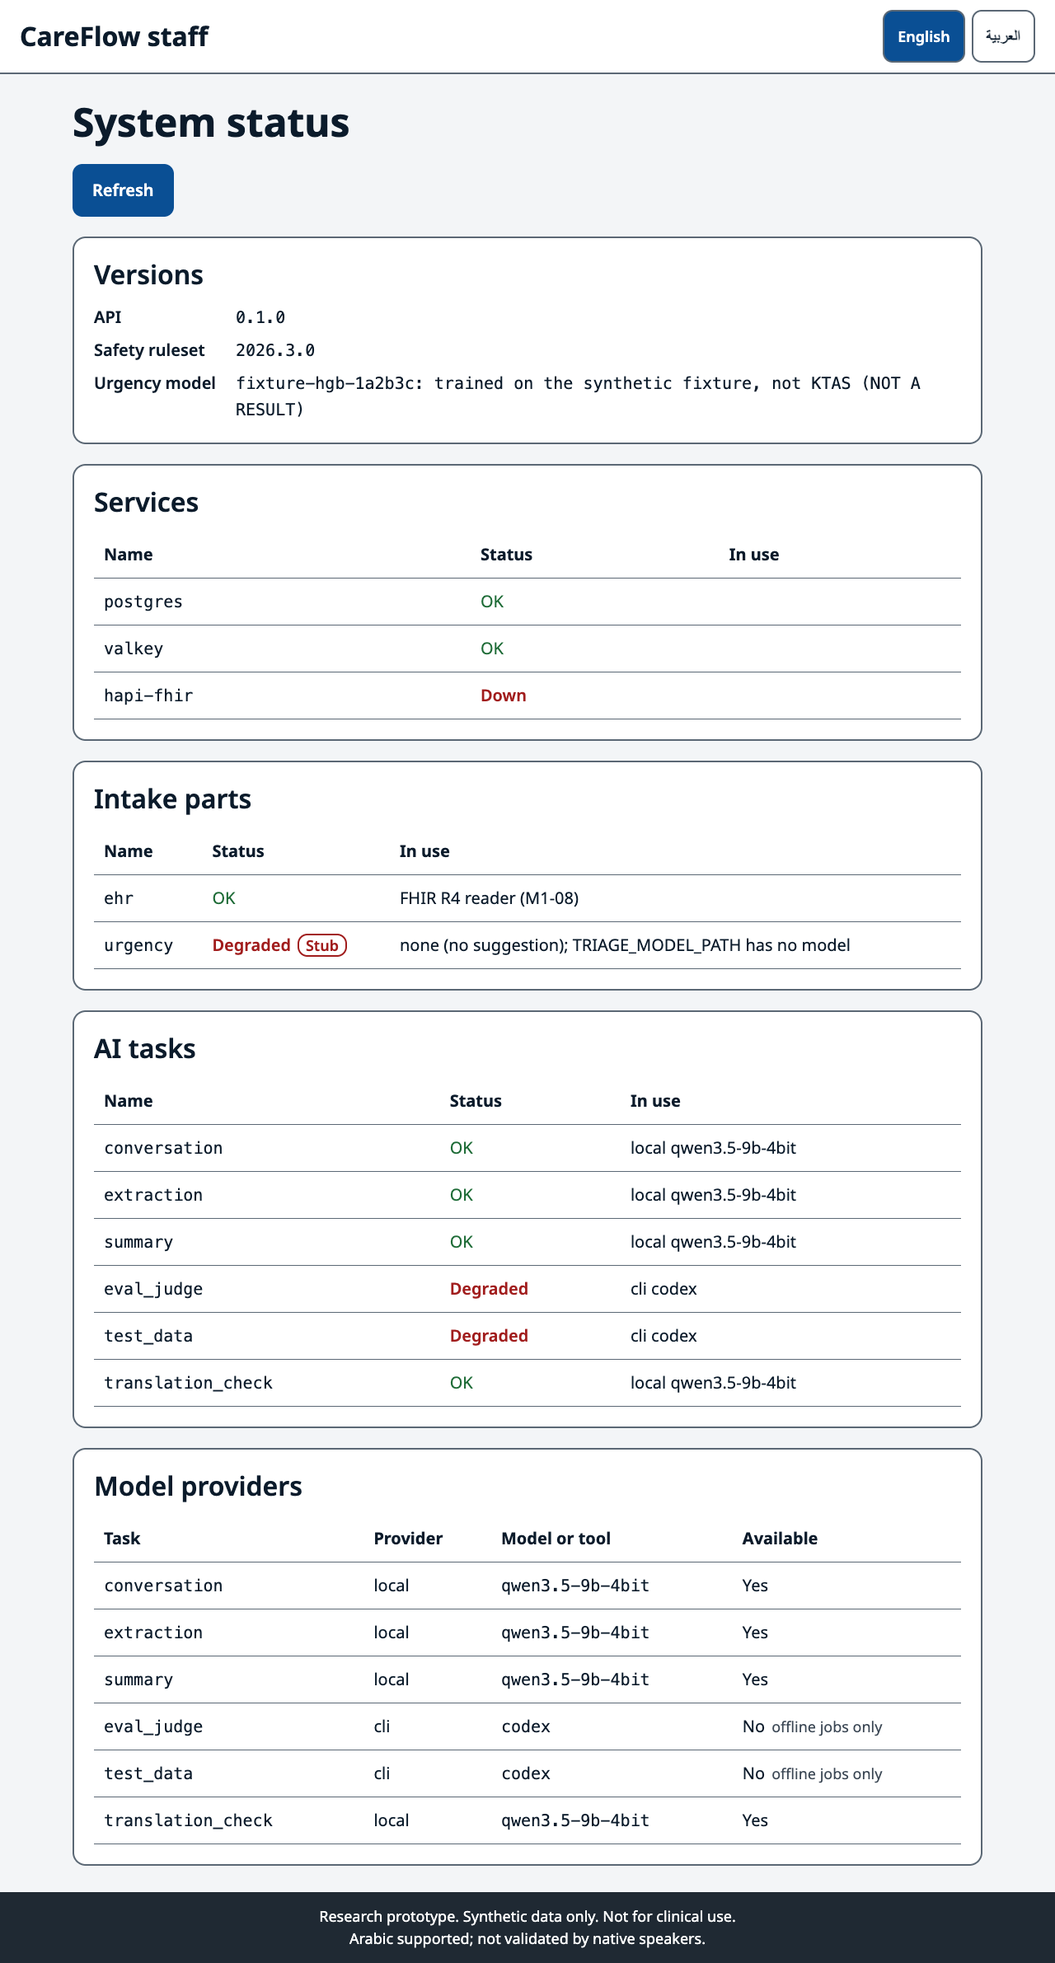
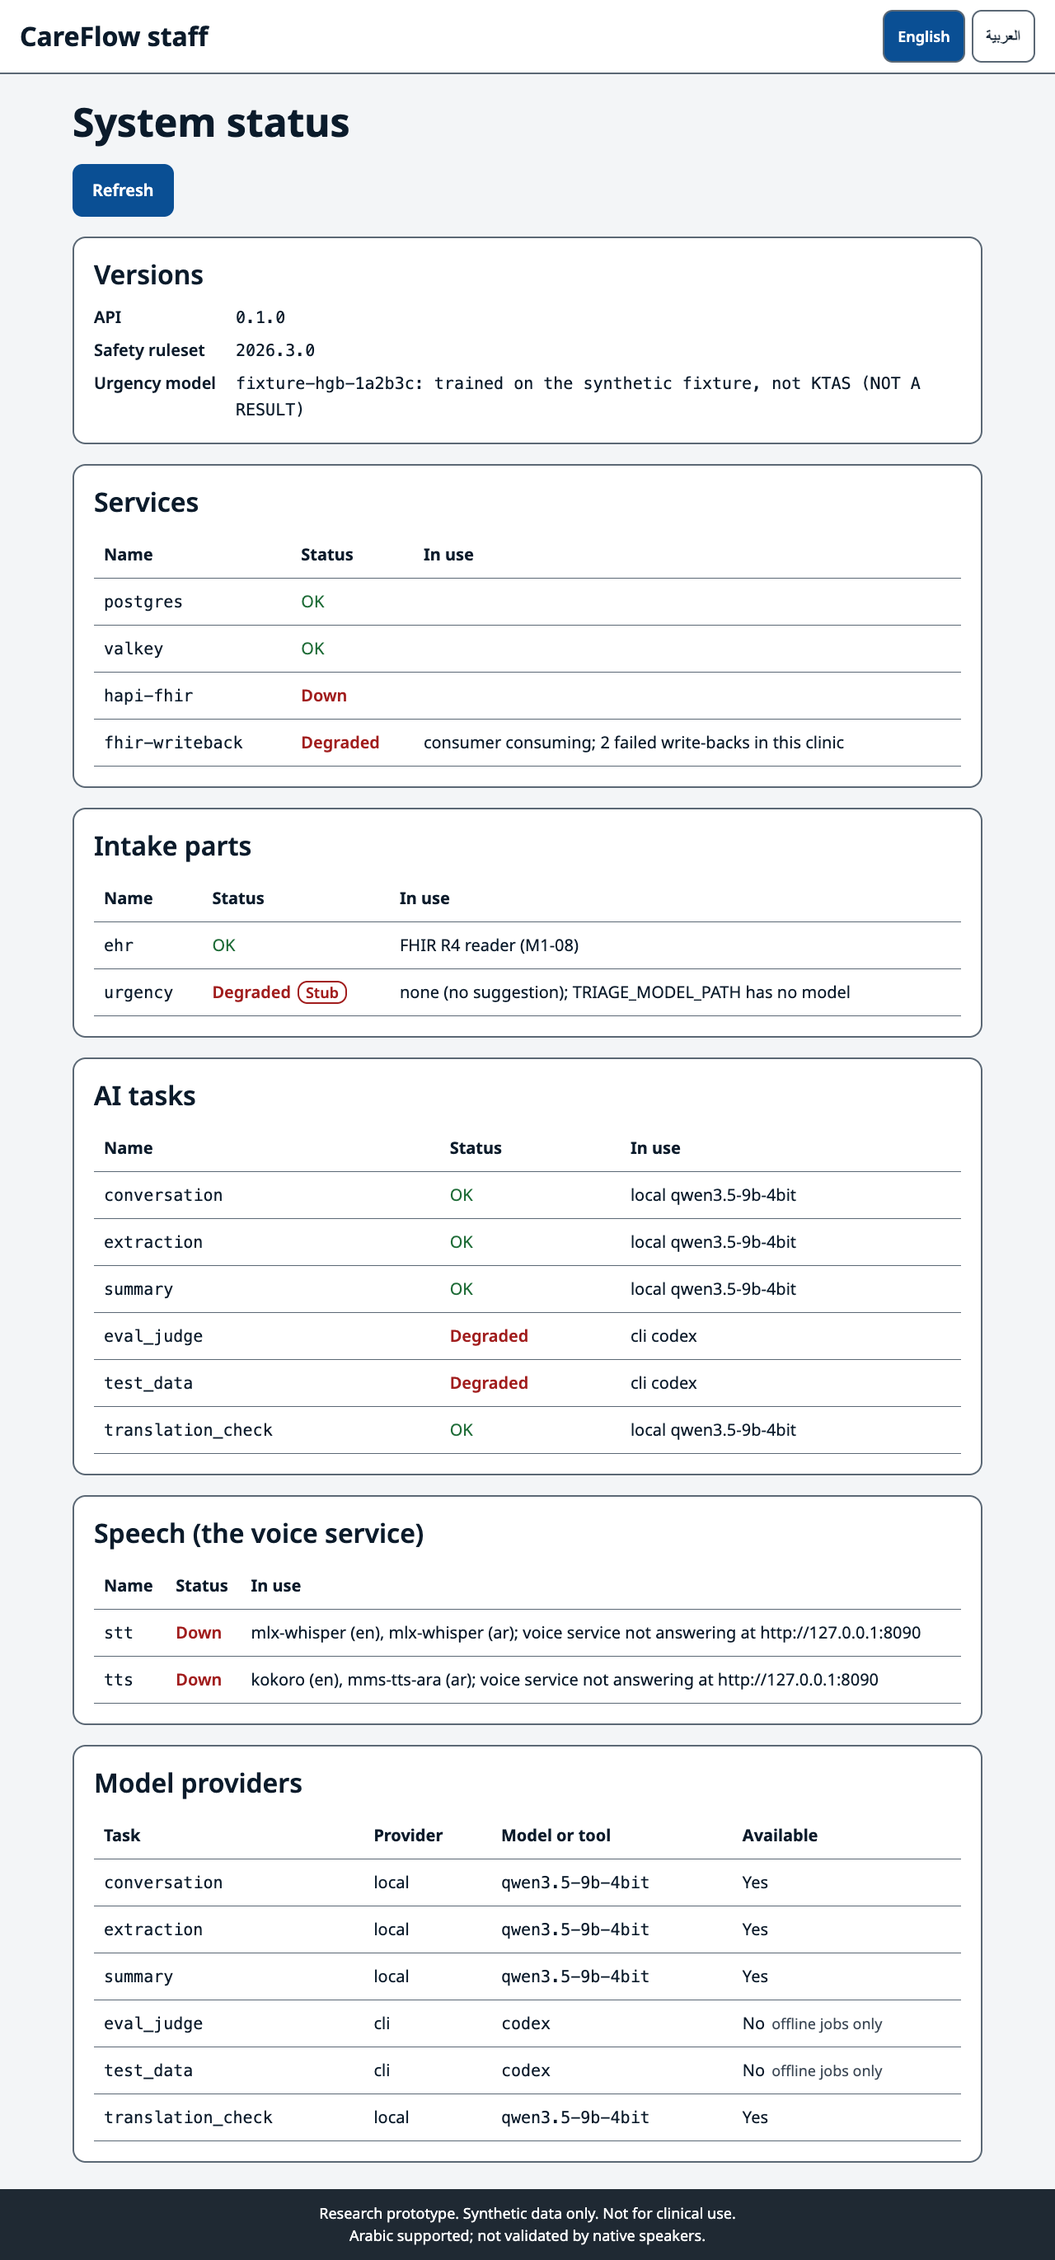
feat(api,staff): report speech and FHIR write-back health honestly on the admin status
- speech:stt and speech:tts per language from config/providers.yaml, "ok" only when CareFlow's
  voice service answers: port 8090 here is held by another copy of the voice agent that also
  answers /healthz, so the CareFlow voice service now names itself ("careflow-voice").
- fhir-writeback: the bus consumer's state (ADR-043) and this clinic's failed write-backs.
- The admin page shows the speech rows; the tests and fixtures cover both.
- docs/FLAKY.md records an intermittent M1-15 nurse e2e test (1 of 4 full runs), not retried.
- docs/evidence/M1-17.md.

Part of SHE-313 [M1-17].

diff --git a/apps/staff/src/components/AdminStatusView.tsx b/apps/staff/src/components/AdminStatusView.tsx
@@ -53,6 +53,7 @@ export function AdminStatusView() {
               <StatusTable title={t("services")} rows={infra} />
               <StatusTable title={t("ports")} rows={byPrefix("port:")} stubs />
               <StatusTable title={t("aiTasks")} rows={byPrefix("ai:")} />
+              <StatusTable title={t("speech")} rows={byPrefix("speech:")} />
             </>
           );
         }}
@@ -105,7 +106,7 @@ function StatusTable({ title, rows, stubs = false }: { title: string; rows: Serv
         <tbody>
           {rows.map((row) => (
             <tr key={row.name} data-row={row.name}>
-              <td className={`${CELL} font-mono`}>{row.name.replace(/^(port|ai):/, "")}</td>
+              <td className={`${CELL} font-mono`}>{row.name.replace(/^(port|ai|speech):/, "")}</td>
               <td className={CELL}>
                 <span className={row.status === "ok" ? "text-success" : "font-semibold text-danger"}>
                   {t(`state.${row.status}`)}

diff --git a/apps/staff/tests/doctor-board-admin.test.tsx b/apps/staff/tests/doctor-board-admin.test.tsx
@@ -208,5 +208,14 @@ describe("AdminStatusView", () => {
     expect(screen.getByText(/NOT A RESULT/)).toBeInTheDocument();
     const hapi = document.querySelector('[data-row="hapi-fhir"]') as HTMLElement;
     expect(within(hapi).getByText("Down")).toBeInTheDocument();
+    // Configured is not running: the write-back's failures and the voice service's absence show.
+    const writeback = document.querySelector('[data-row="fhir-writeback"]') as HTMLElement;
+    expect(within(writeback).getByText("Degraded")).toBeInTheDocument();
+    expect(writeback).toHaveTextContent("2 failed write-backs in this clinic");
+    for (const kind of ["stt", "tts"]) {
+      const speech = document.querySelector(`[data-row="speech:${kind}"]`) as HTMLElement;
+      expect(within(speech).getByText("Down")).toBeInTheDocument();
+      expect(speech).toHaveTextContent("voice service not answering");
+    }
   });
 });

diff --git a/apps/staff/tests/e2e/screens.spec.ts b/apps/staff/tests/e2e/screens.spec.ts
@@ -118,6 +118,8 @@ test("the admin status lists every AI task, marks stubs, names a fixture model a
   await expect(urgencyPort.getByText("Stub")).toBeVisible();
   await expect(page.getByText(/NOT A RESULT/)).toBeVisible();
   await expect(page.locator('[data-row="hapi-fhir"]').getByText("Down")).toBeVisible();
+  await expect(page.locator('[data-row="fhir-writeback"]')).toContainText("2 failed write-backs in this clinic");
+  await expect(page.locator('[data-row="speech:stt"]')).toContainText("voice service not answering");
   await axe(page, "admin");
   await evidence(page, "admin-status");
 });

diff --git a/services/api/src/careflow_api/routers/admin.py b/services/api/src/careflow_api/routers/admin.py
@@ -9,14 +9,18 @@ from __future__ import annotations
 
 import os
 import shutil
+import uuid
 from pathlib import Path
 from typing import Annotated, Any
 
 import httpx
 from fastapi import APIRouter, Depends, Request
+from sqlalchemy import func, select
 
 from careflow_api.config import Settings, get_settings
-from careflow_api.deps import require_roles
+from careflow_api.deps import Principal, require_roles
+from careflow_api.models import FhirWritebackStatus
+from careflow_api.rls import clinic_session
 from careflow_api.routers.health import component_status
 from careflow_contracts.api_models import AdminStatus, ProvidersResponse
 from careflow_providers.adapters.replay import provider_mode
@@ -41,7 +45,9 @@ def ruleset_version() -> str:
     dependencies=[Depends(require_roles("admin"))],
 )
 async def admin_status(
-    settings: Annotated[Settings, Depends(get_settings)], request: Request
+    settings: Annotated[Settings, Depends(get_settings)],
+    request: Request,
+    principal: Annotated[Principal, Depends(require_roles("admin"))],
 ) -> AdminStatus:
     """The services, then every intake port's implementation (M1-12), the AI tasks' providers
     and models, and the versions of the ruleset and the urgency model."""
@@ -49,6 +55,7 @@ async def admin_status(
     services: list[dict[str, str]] = [
         {"name": SERVICE_NAMES[key], "status": value} for key, value in components.items()
     ]
+    services.append(await writeback_row(request, principal.clinic_id))
     wiring = getattr(request.app.state, "wiring", None)
     if wiring is not None:
         for choice in wiring.choices:
@@ -69,6 +76,7 @@ async def admin_status(
         services.append(
             {"name": "intake", "status": "down", "detail": "intake runtime not started"}
         )
+    services.extend(await speech_rows(settings))
     for task in await provider_rows():
         uses = task.get("model") or task.get("tool") or ""
         services.append(
@@ -85,6 +93,64 @@ async def admin_status(
             "services": services,
         }
     )
+
+
+async def writeback_row(request: Request, clinic_id: uuid.UUID) -> dict[str, str]:
+    """The FHIR write-back as it runs: its bus consumer (ADR-043) and this clinic's write-backs
+    that failed for good (an outage stays pending and is retried, so it is not counted)."""
+    from careflow_api.intake.consumers import WRITEBACK_GROUP
+
+    bus = getattr(request.app.state, "bus", None)
+    consumer = bus.status.get(WRITEBACK_GROUP) if bus is not None else None
+    async with clinic_session(clinic_id) as db:
+        query = select(func.count()).select_from(FhirWritebackStatus)
+        failed = (
+            await db.execute(query.where(FhirWritebackStatus.status == "failed"))
+        ).scalar_one()
+    if consumer is None:
+        status = "down"
+    else:
+        status = "ok" if consumer == "consuming" and failed == 0 else "degraded"
+    detail = f"consumer {consumer or 'not running'}; {failed} failed write-backs in this clinic"
+    return {"name": "fhir-writeback", "status": status, "detail": detail}
+
+
+def voice_url(settings: Settings) -> str:
+    return settings.voice_base_url or f"http://127.0.0.1:{os.environ.get('VOICE_PORT', '8090')}"
+
+
+async def careflow_voice_answers(url: str) -> bool:
+    """Whether CareFlow's voice service answers at `url`: another copy of the voice agent on the
+    same port answers /healthz too, but without `service: careflow-voice`."""
+    try:
+        async with httpx.AsyncClient(timeout=LOCAL_PROBE_SECONDS) as client:
+            response = await client.get(f"{url.rstrip('/')}/healthz")
+        body = response.json() if response.status_code == 200 else {}
+    except (httpx.HTTPError, ValueError):
+        return False
+    return isinstance(body, dict) and body.get("service") == "careflow-voice"
+
+
+async def speech_rows(settings: Settings) -> list[dict[str, str]]:
+    """STT and TTS per language, from config/providers.yaml's speech section; "ok" only when the
+    CareFlow voice service that runs them answers."""
+    from careflow_intake.wiring import providers_config
+
+    speech = providers_config().speech or {}
+    url = voice_url(settings)
+    up = await careflow_voice_answers(url)
+    rows = []
+    for kind in ("stt", "tts"):
+        spec = speech.get(kind) or {}
+        by_language = spec.get("by_language") or {}
+        engines = ", ".join(f"{engine} ({lang})" for lang, engine in by_language.items())
+        detail = engines or str(spec.get("provider", "not configured"))
+        if not up:
+            detail = f"{detail}; voice service not answering at {url}"
+        rows.append(
+            {"name": f"speech:{kind}", "status": "ok" if up else "down", "detail": detail[:200]}
+        )
+    return rows
 
 
 def urgency_row(wiring: Any) -> dict[str, str]:

diff --git a/services/api/tests/test_admin_honesty.py b/services/api/tests/test_admin_honesty.py
@@ -86,3 +86,40 @@ def test_the_urgency_model_row_says_what_is_installed() -> None:
         "status": "ok",
         "detail": "ktas-hgb-ebf31b5e-s42",
     }
+
+
+SPEECH = {
+    "stt": {"provider": "mlx-whisper", "by_language": {"en": "mlx-whisper", "ar": "mlx-whisper"}},
+    "tts": {"provider": "kokoro", "by_language": {"en": "kokoro", "ar": "mms-tts-ara"}},
+}
+
+
+@respx.mock
+async def test_speech_is_up_only_when_careflow_voice_answers(
+    monkeypatch: pytest.MonkeyPatch,
+) -> None:
+    config = CONFIG.model_copy(update={"speech": SPEECH})
+    monkeypatch.setattr("careflow_intake.wiring.providers_config", lambda *a, **k: config)
+    settings = SimpleNamespace(voice_base_url="http://voice.test")
+    health = respx.get("http://voice.test/healthz")
+
+    health.mock(side_effect=httpx.ConnectError("refused"))
+    down = {row["name"]: row for row in await admin.speech_rows(settings)}  # type: ignore[arg-type]
+    assert down["speech:stt"]["status"] == "down"
+    assert down["speech:stt"]["detail"].endswith("voice service not answering at http://voice.test")
+
+    # Another copy of the voice agent on the port answers /healthz, but it is not CareFlow's.
+    health.mock(return_value=httpx.Response(200, json={"status": "ok"}))
+    other = await admin.speech_rows(settings)  # type: ignore[arg-type]
+    assert {row["status"] for row in other} == {"down"}
+
+    health.mock(
+        return_value=httpx.Response(200, json={"status": "ok", "service": "careflow-voice"})
+    )
+    up = {row["name"]: row for row in await admin.speech_rows(settings)}  # type: ignore[arg-type]
+    assert up["speech:stt"] == {
+        "name": "speech:stt",
+        "status": "ok",
+        "detail": "mlx-whisper (en), mlx-whisper (ar)",
+    }
+    assert up["speech:tts"]["detail"] == "kokoro (en), mms-tts-ara (ar)"

diff --git a/services/api/tests/test_intake_flow.py b/services/api/tests/test_intake_flow.py
@@ -426,6 +426,13 @@ def test_admin_status_lists_ports_providers_and_versions(flow: TestClient, clini
     names = {service["name"]: service for service in body["services"]}
     assert body["ruleset_version"] and body["api_version"]
     assert {names[name]["status"] for name in ("postgres", "valkey", "hapi-fhir")} == {"ok"}
+    # The write-back consumer runs and this clinic's write-back succeeded.
+    assert names["fhir-writeback"]["status"] == "ok", names["fhir-writeback"]
+    assert (
+        names["fhir-writeback"]["detail"]
+        == "consumer consuming; 0 failed write-backs in this clinic"
+    )
+    assert {"speech:stt", "speech:tts"} <= set(names)  # down here: no CareFlow voice service
     assert names["urgency-model"]["status"] == "degraded"  # no triage model: no suggestion
     assert names["port:urgency"]["detail"].startswith("none (no suggestion)")
     extractor = names["port:extractor"]["detail"]

diff --git a/services/api/src/careflow_api/config.py b/services/api/src/careflow_api/config.py
@@ -29,6 +29,11 @@ class Settings(BaseSettings):
     #: The FHIR endpoint override (`FHIR_BASE_URL`); unset, the hospital adapter file's URL is
     #: used. Read it through `careflow_api.hospital.fhir_endpoint()`.
     fhir_base_url: str | None = None
+    #: The CareFlow voice service (M1-14), probed by the admin status; unset, VOICE_PORT on this
+    #: host (default 8090).
+    voice_base_url: str | None = Field(
+        default=None, validation_alias=AliasChoices("CAREFLOW_VOICE_URL")
+    )
     runtime: str = Field(default="live", validation_alias=AliasChoices("CAREFLOW_RUNTIME"))
     #: "dev" enables the /v1/dev test hooks; any other value (the default) leaves them out.
     env: str = Field(default="prod", validation_alias=AliasChoices("CAREFLOW_ENV"))

diff --git a/services/voice/src/voice_agent/app.py b/services/voice/src/voice_agent/app.py
@@ -292,7 +292,9 @@ def create_app(
 
     @app.get("/healthz")
     async def healthz() -> dict[str, str]:
-        return {"status": "ok"}
+        # "service" tells CareFlow's voice service apart from another copy of the voice agent
+        # on the same port (the API's admin status probes it, M1-17).
+        return {"status": "ok", "service": "careflow-voice"}
 
     @app.get("/metrics")
     async def metrics() -> Response:

diff --git a/services/voice/tests/test_call_routes.py b/services/voice/tests/test_call_routes.py
@@ -162,7 +162,7 @@ def test_health_routes_report_ready_for_local_stack() -> None:
     )
     client = TestClient(app)
 
-    assert client.get("/healthz").json() == {"status": "ok"}
+    assert client.get("/healthz").json() == {"status": "ok", "service": "careflow-voice"}
     assert client.get("/readyz").json() == {
         "status": "ready",
         "providers": {"stt": "local", "llm": "local", "tts": "local"},

diff --git a/docs/evidence/M1-17.md b/docs/evidence/M1-17.md
@@ -1,0 +1,80 @@
+# M1-17: the doctor briefing, the public board and the admin status, verified
+
+Status: every acceptance criterion met on 27 September 2026 (mapping at the end). The screens
+were merged earlier (PR #25); this change adds the deferred verification and fixes what it
+found. The PR, its CI and the merge commit are in the Linear SHE-313 done report.
+
+**These are mock-backed checks by design.** The component tests stub the API client and the
+Playwright tests stub HTTP with `page.route()`, both from synthetic fixtures derived from the
+contract's own examples (`apps/staff/tests/fixtures/api/`). The same screens against the real
+API, a persisted briefing and live queue updates are the journeys' proof (SHE-315 [M1-19],
+SHE-311 [M2-12]); a passing mock is not that proof. Research prototype; synthetic data only.
+
+## What changed
+
+- **The public board could stay stale silently.** A failed poll kept the last answer on screen
+  with nothing to say so, so a board could keep "calling" numbers long after the API went away.
+  It now shows "Connection lost. This board may be out of date (last updated HH:MM)." (clinic
+  time zone) while keeping the last numbers, and the next answer replaces them and clears it.
+- **The admin status now says what actually runs** (API): a local model is available only when
+  its server answers `/models` (probed once per server, 1 s); a missing urgency model reads
+  "none: no suggestion" and one trained on the synthetic fixture is "degraded",
+  "trained on the synthetic fixture, not KTAS (NOT A RESULT)".
+- **Speech and FHIR write-back health were missing** from the admin status (issue step 6). It
+  now lists `speech:stt` and `speech:tts` per language from `config/providers.yaml`, "ok" only
+  when CareFlow's voice service answers. On this machine port 8090 is taken by another copy of
+  the voice agent that also answers `/healthz` `{"status":"ok"}`, so the CareFlow voice service
+  now names itself (`"service": "careflow-voice"`) and anything else counts as down. The
+  `fhir-writeback` row shows the bus consumer's state (ADR-043) and this clinic's failed
+  write-backs. Tests: `services/api/tests/test_admin_honesty.py` (3) and the flow test's admin
+  check on the isolated stack (consumer consuming, 0 failed write-backs).
+- `@axe-core/playwright` 4.13.0 is pinned in the pnpm catalog (staff devDependency).
+
+## Commands and results
+
+```sh
+pnpm --filter staff test          # Test Files 4 passed, Tests 35 passed (17 new)
+pnpm --filter staff test:e2e      # 18 passed (13.7s): smoke 4, nurse 10, screens 4 (new)
+pnpm --filter staff lint          # clean
+pnpm --filter staff typecheck     # clean (next typegen && tsc --noEmit)
+uv run pytest services/api/tests/test_admin_honesty.py   # 3 passed
+python3 scripts/stack.py run --stack careflow-test -- uv run pytest \
+  services/api/tests/test_admin_honesty.py services/api/tests/test_intake_flow.py \
+  services/voice/tests/test_call_routes.py                # 101 passed
+```
+
+The e2e run writes the screenshots below (the nurse spec also rewrites `docs/evidence/M1-15/`;
+those were restored, as they belong to M1-15).
+
+| Screenshot | Shows |
+| --- | --- |
+| `M1-17/briefing-patient-source.png` | All five chips with their text, the red "Source missing" line, the dashed "Model inferred" chips, and the patient's words marked in the popover |
+| `M1-17/board.png` | Numbers, rooms and the waiting count only, from an answer that also carried names, levels and a complaint |
+| `M1-17/board-connection-lost.png` | The stale notice over the last board after a failed poll |
+| `M1-17/admin-status.png` | Every configured AI task, the "Stub" badge, the fixture model named "NOT A RESULT", HAPI down |
+
+## Acceptance criteria
+
+| Criterion | Evidence |
+| --- | --- |
+| `pnpm --filter staff test` and `test:e2e` pass, covering every case in the issue | 35 and 18 passed. Covered: `highlight` (ASCII, emoji, edges, Arabic); chip labels; the briefing with all 5 chip types and a chip on every line; the PATIENT_STATED popover's `<mark>` equal to the fixture quote; the EHR link `${FHIR}/{type}/{id}`; the dropped-summary message; the board without the fixture's names; the admin page listing every AI task in `config/providers.yaml` (conversation, extraction, summary, eval_judge, test_data, translation_check) and marking stubs |
+| Every chip has a visible text label, and the popover works by keyboard (Tab + Enter, Esc closes) | Vitest `labels %s with text, never colour alone` (5) and the missing chip; Vitest and Playwright: Tab or focus, Enter opens (`aria-expanded` true), Escape closes and returns focus to the chip |
+| The board test proves no name and no level is rendered | The board answer carries `patient_display`, `level` and `complaint`; neither the Vitest nor the Playwright board shows any of them, nor the words "level", "KTAS" or "urgency" |
+| The axe scan reports 0 serious or critical issues | `@axe-core/playwright` on the briefing (with a popover opened and closed), the board and the admin status: `[]` serious or critical |
+| Lint and type checks are clean | ESLint and tsc clean for staff; ruff and pyright clean for the API change |
+
+Also verified: a failed board poll marks the board stale and the next answer clears it
+(Vitest with fake timers; Playwright with an aborted route). The nurse worklist's live channel
+already falls back to polling when it closes (`nurse.spec.ts`, "a closed live channel shows
+Live updates paused"); refreshing the nurse's open card on deterioration and the queue
+lifecycle controls are SHE-302 [M2-07].
+
+## Known limits
+
+- One pre-existing nurse test (M1-15, "ECG done ... stops the countdown") failed once in four
+  full e2e runs and passed every other time; recorded in `docs/FLAKY.md`, not retried, to be
+  fixed with SHE-302 [M2-07].
+
+- The Arabic board notice is a machine translation, like the rest of the Arabic copy; its
+  back-translation check belongs to SHE-273 [M2-01].
+- Mock-backed only, as above.

diff --git a/docs/FLAKY.md b/docs/FLAKY.md
@@ -11,3 +11,17 @@ This file lists tests whose outcome depends on the machine or on timing, and how
   2. The owner decisions (CONVENTIONS) say speed targets are measured and published, never CI gates. So the 20 ms assertion runs on the reference machine (any run without `CI=true`).
   3. On a CI runner, the test issues a warning with the p50 and slowest call when a call exceeds the budget, instead of failing.
 - **Still asserted in CI.** Every call must return a contract-valid `UrgencySuggestion` with 3 reasons and a `model_version`.
+
+## `apps/staff/tests/e2e/nurse.spec.ts` › "ECG done sends the task-complete request once and stops the countdown" (M1-15)
+
+- **What happened.** During SHE-313 [M1-17] on 27 September 2026, one full `pnpm --filter staff
+  test:e2e` run out of four failed this test at `expect(ecg-status).toContainText("07:00")`
+  (the 5 s expect timeout, 5.4 s in all). The other three full runs and three runs of the test
+  alone passed. The M1-17 changes do not touch the nurse screens.
+- **Suspected cause.** The test installs the fake clock at the alert time, loads the card, then
+  pauses the clock at alert + 3 min and expects the countdown to read 07:00. If the card's first
+  render (or its triage fetch) lands on either side of `pauseAt` differently from run to run, the
+  countdown may be computed before the pause and not recomputed within the timeout.
+- **Handling.** Not retried, not weakened. Reproduce and fix with SHE-302 [M2-07], which changes
+  the nurse card's refresh (the card must re-read alerts live). Until then the test runs as it
+  is in CI; a red run of it is investigated, not re-run until green.
